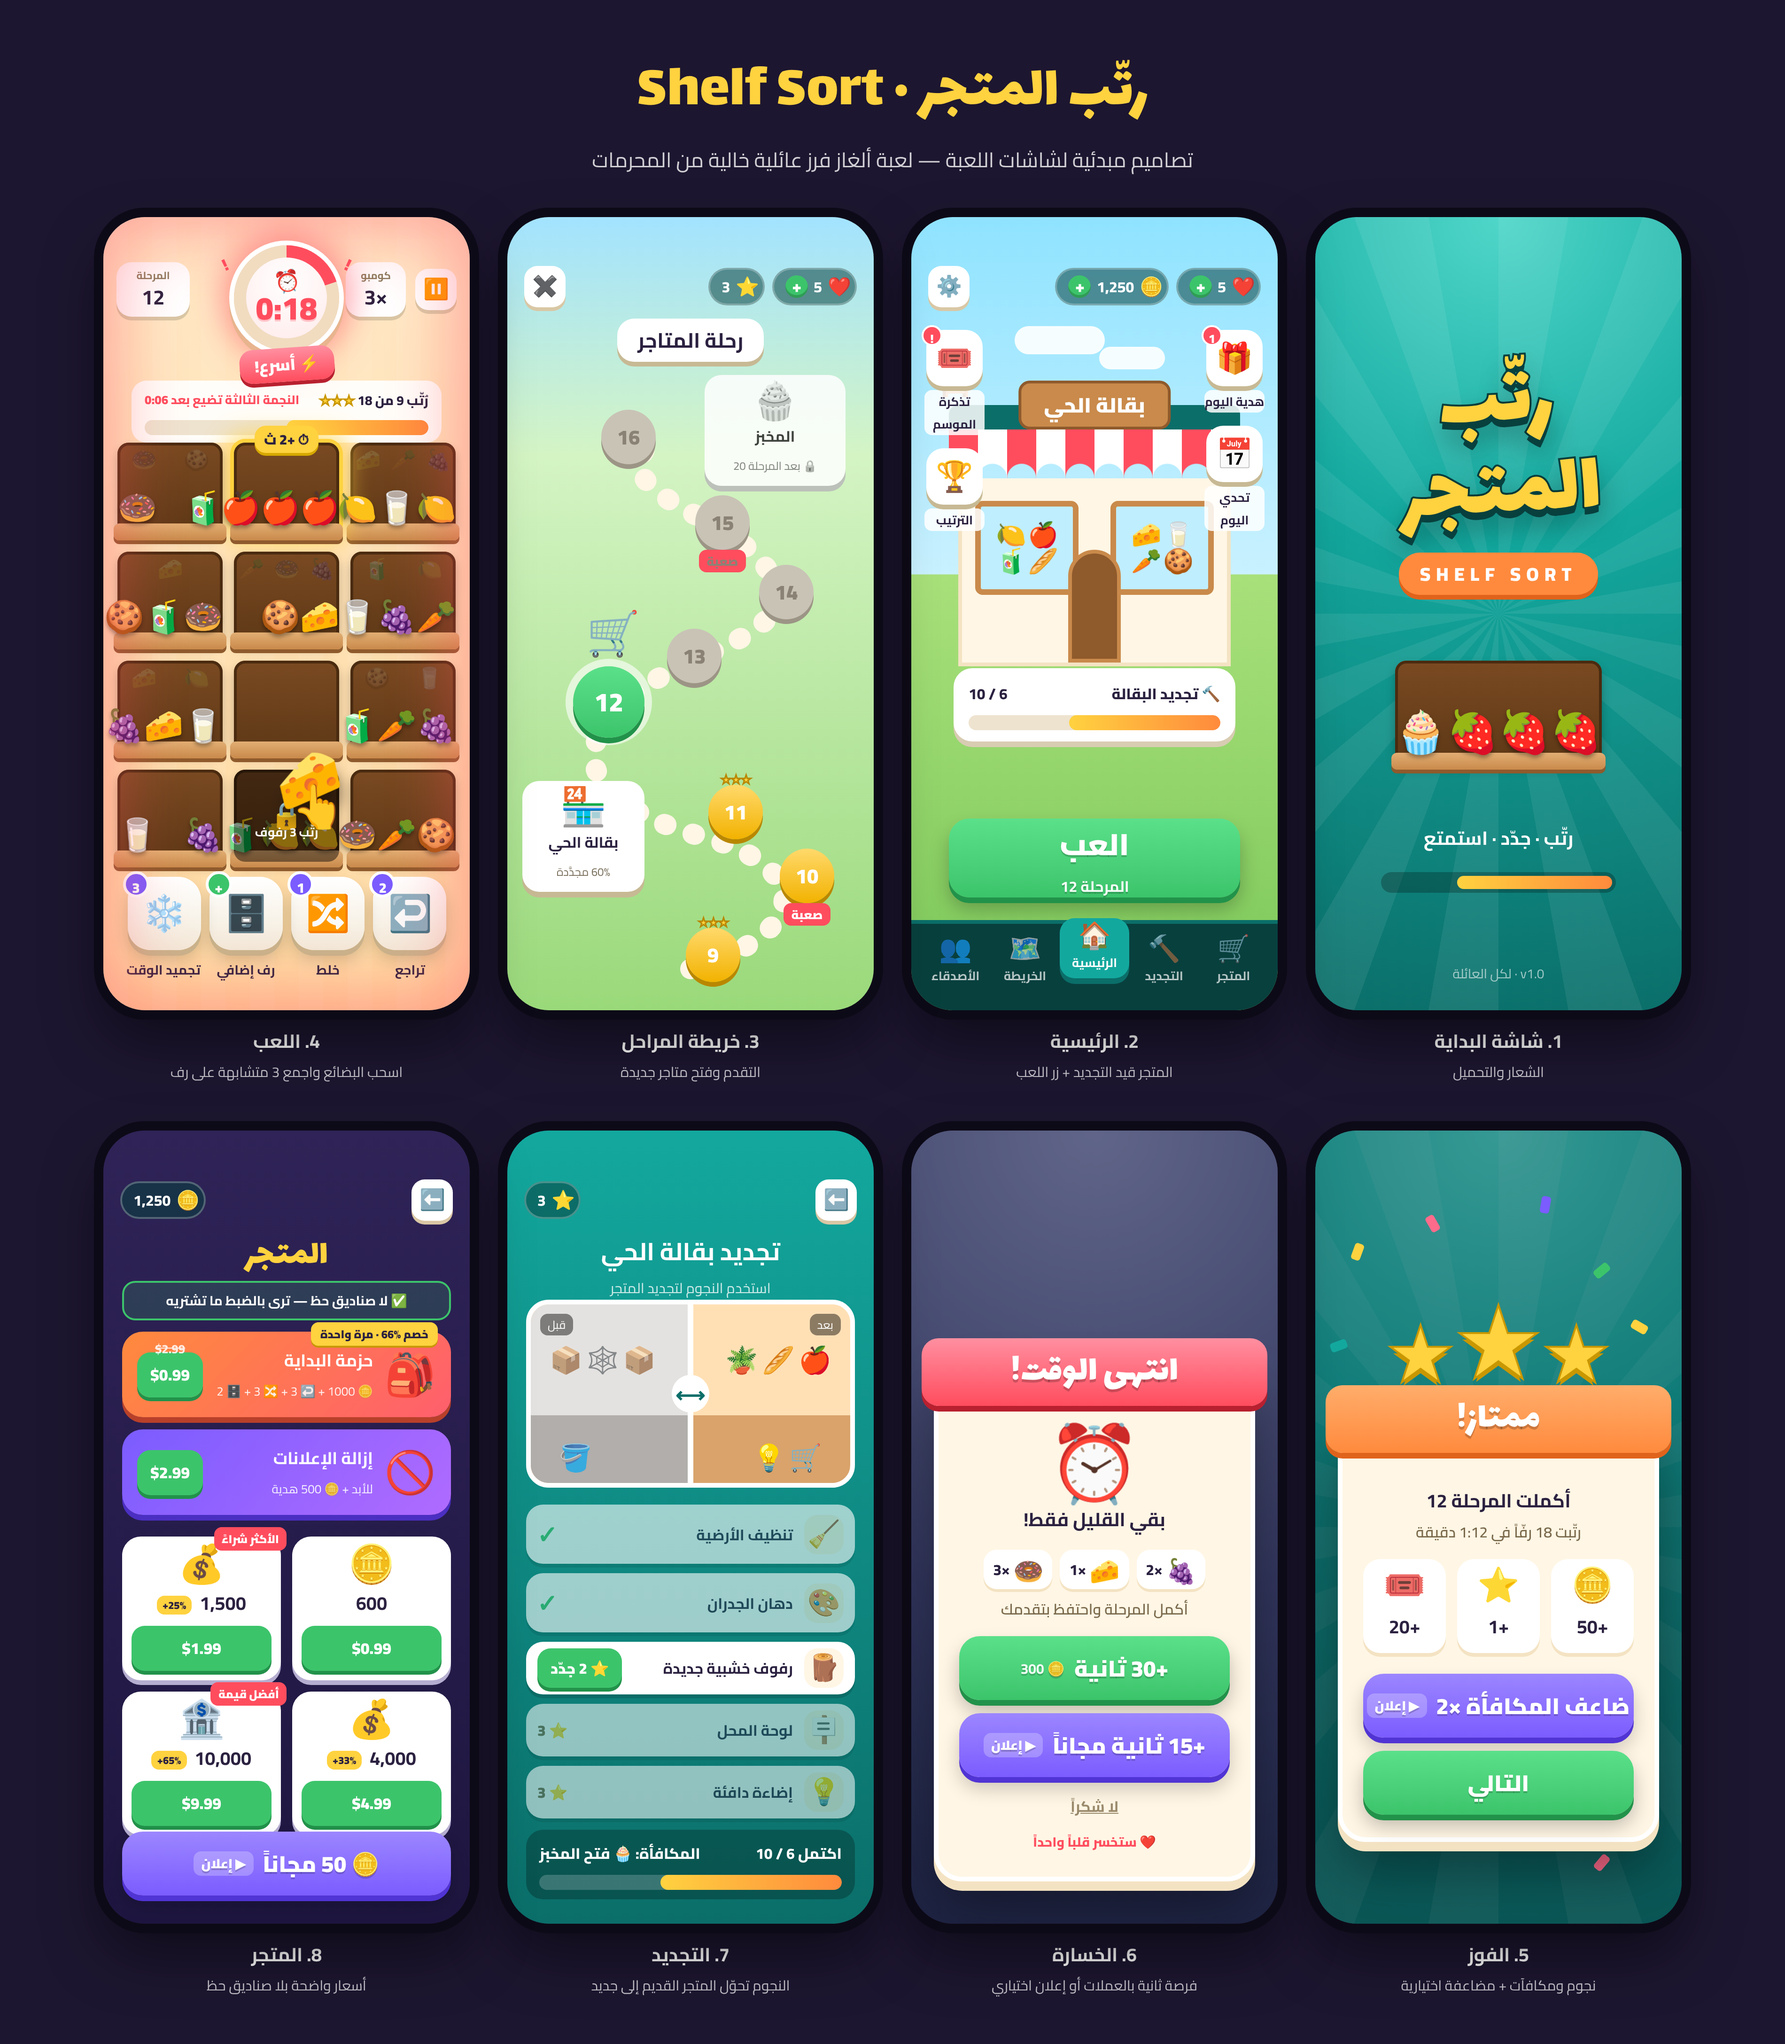
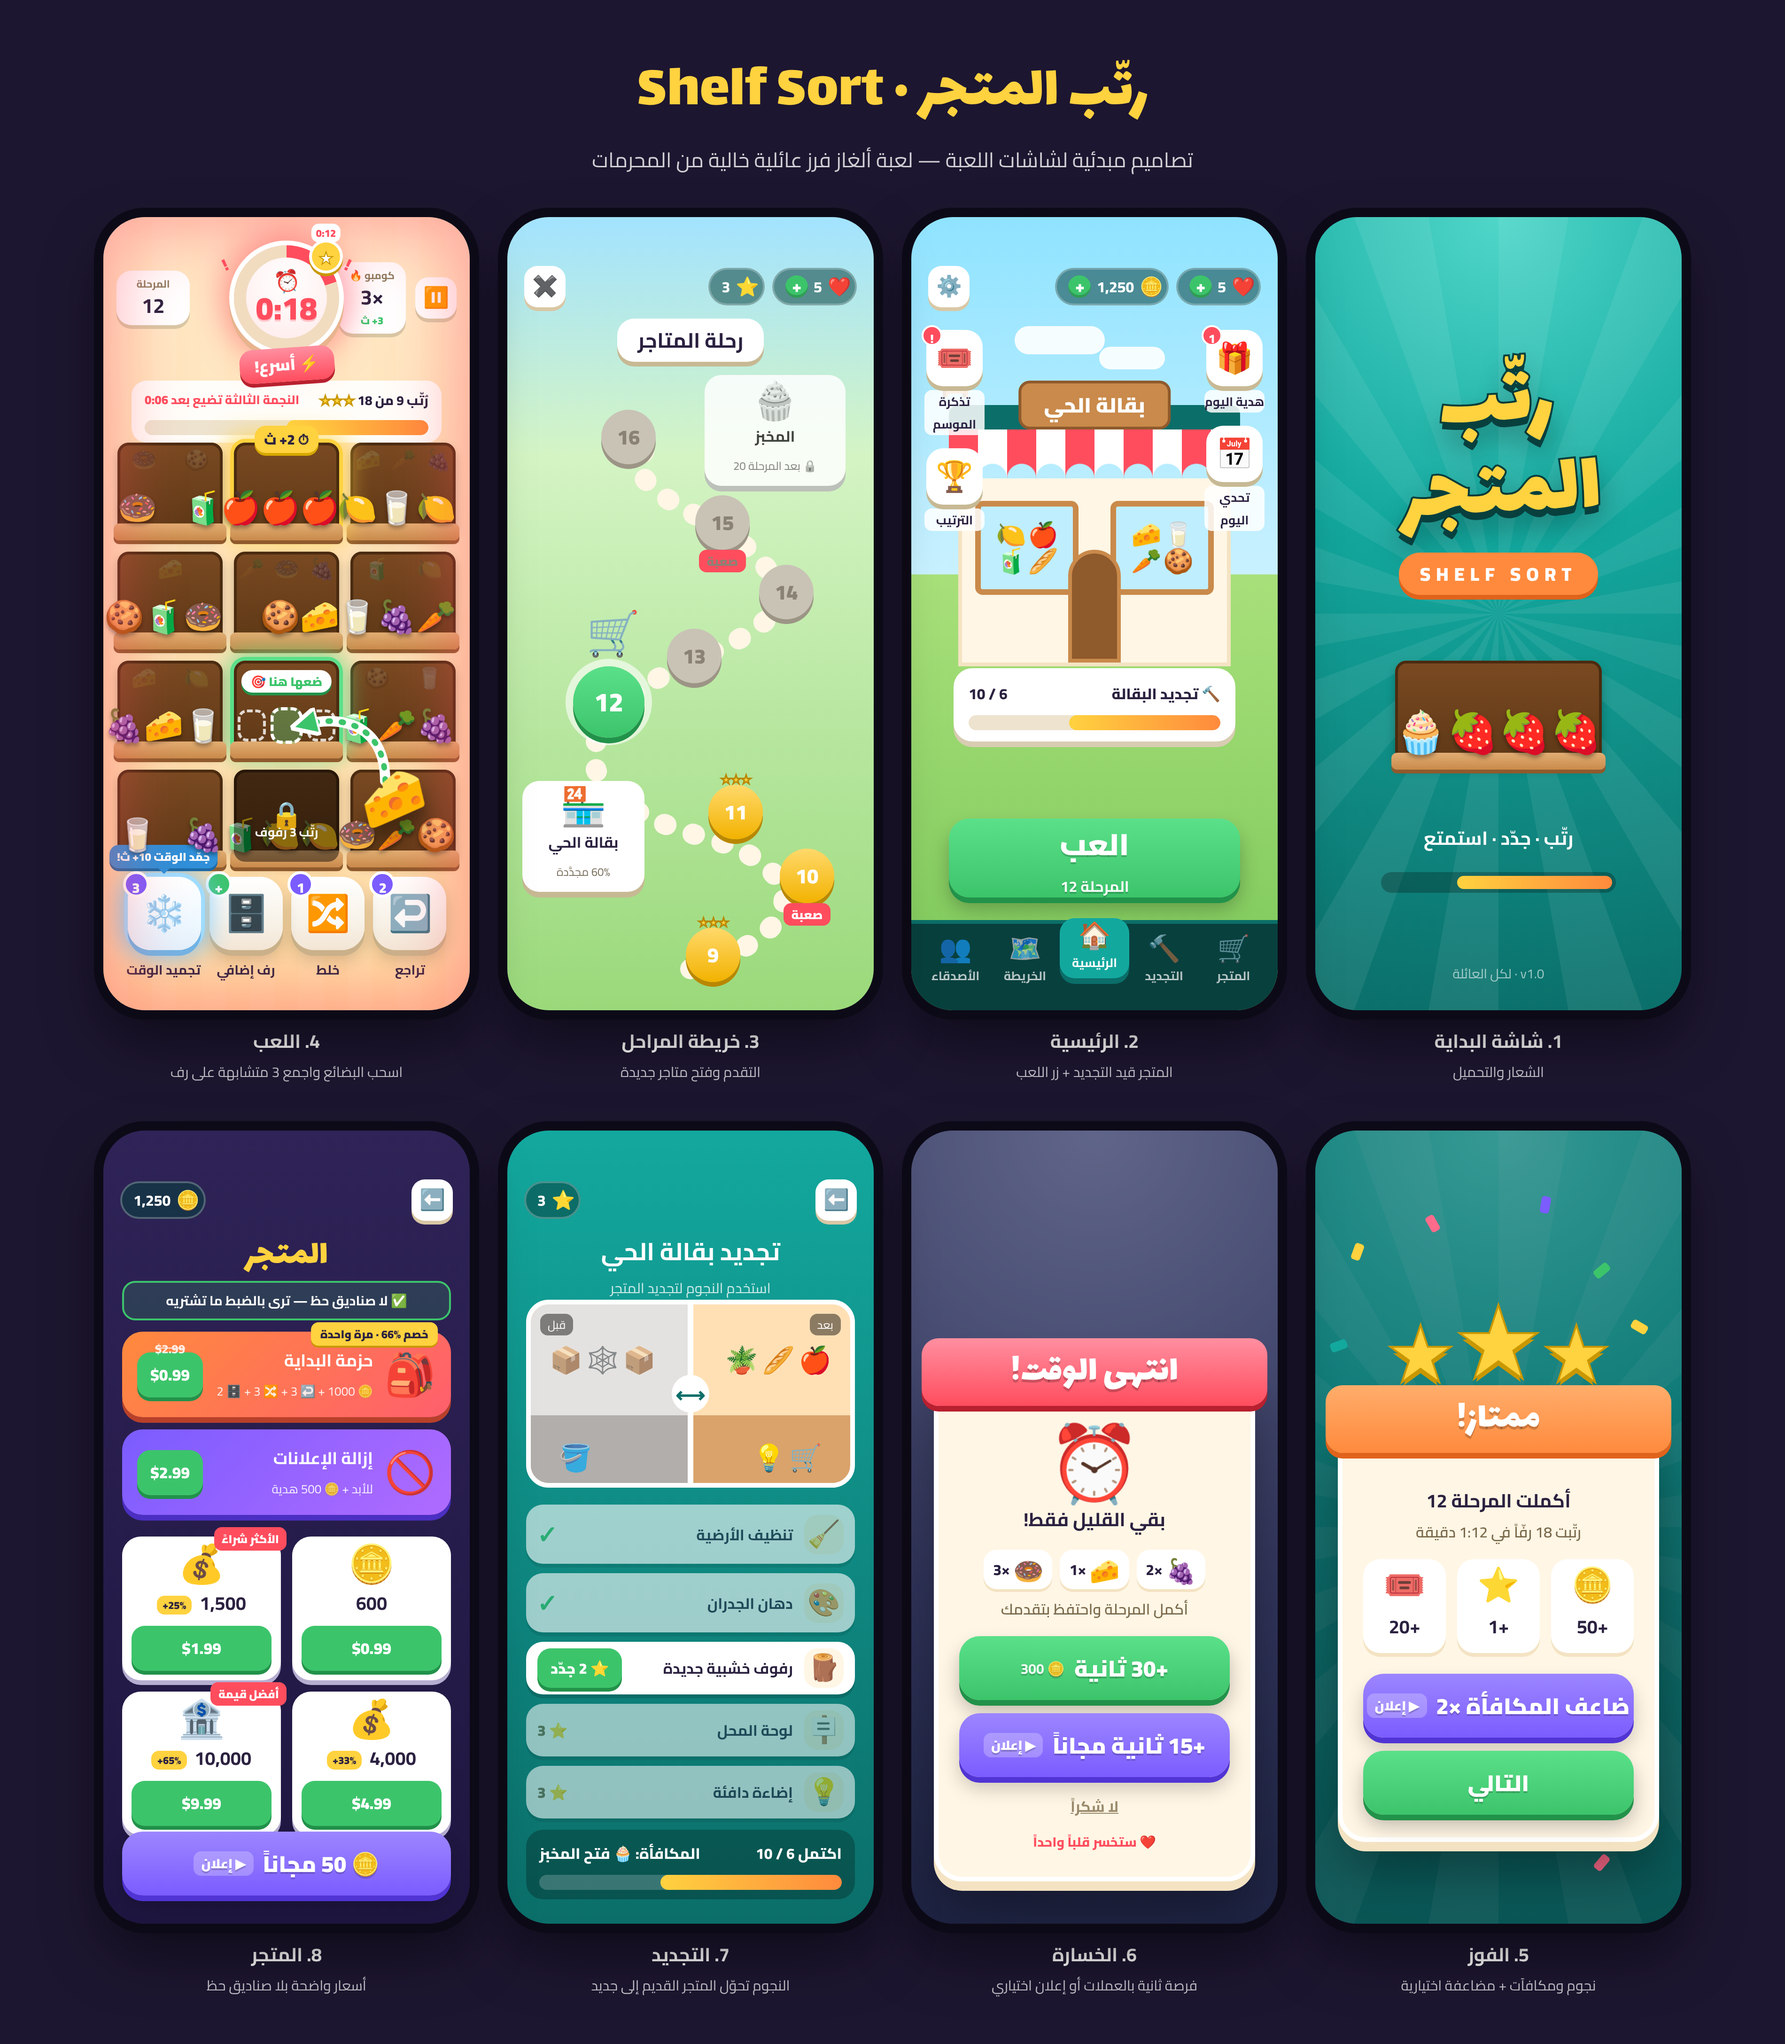
Mockups: guide arrow instead of hand, smarter timer cues
Claude-Session: https://claude.ai/code/session_0198GSpUHpAsMi38EfXjb44N

diff --git a/design/mockups/shelf-sort-mockups.html b/design/mockups/shelf-sort-mockups.html
@@ -160,6 +160,23 @@ body { font-family: "Cairo", sans-serif; background: #1d1630; color: var(--ink);
   font-weight: 900; font-size: 17px; padding: 2px 16px; border-radius: 14px; box-shadow: 0 4px 0 #b8202f; transform: rotate(-4deg); white-space: nowrap; }
 .timer .tick { position: absolute; top: 4px; font-size: 18px; font-weight: 900; color: var(--red); }
 .timer .tick.a { left: -12px; transform: rotate(-25deg); } .timer .tick.b { right: -12px; transform: rotate(25deg); }
+.shelf.drop { box-shadow: inset 0 0 0 3px #4a2b10, 0 0 0 4px #5be08a, 0 0 24px 8px rgba(91,224,138,.75); }
+.shelf.drop .front { justify-content: space-around; }
+.shelf.drop .ghost-slot { width: 30px; height: 34px; border: 3px dashed rgba(255,255,255,.8); border-radius: 10px; }
+.shelf.drop .ghost-slot.hl { background: rgba(91,224,138,.35); border-color: #fff; transform: scale(1.15); }
+.drop-chip { position: absolute; top: 10px; left: 50%; transform: translateX(-50%); z-index: 4; background: #fff; color: var(--green); font-weight: 900;
+  font-size: 13px; border-radius: 12px; padding: 0 10px; box-shadow: 0 3px 0 #22924a; white-space: nowrap; }
+.guide { position: absolute; inset: 0; z-index: 8; pointer-events: none; }
+.trail { position: absolute; z-index: 8; font-size: 12px; color: #fff; }
+.timer .star-mark { position: absolute; z-index: 2; width: 30px; height: 30px; border-radius: 50%; background: var(--yellow); display: grid; place-items: center;
+  font-size: 18px; color: #fff; -webkit-text-stroke: 1px #c99700; box-shadow: 0 0 0 3px #fff, 0 3px 0 3px #c99700; }
+.timer .star-mark small { position: absolute; top: -20px; left: 50%; transform: translateX(-50%); font-size: 11px; font-weight: 900; color: var(--red);
+  -webkit-text-stroke: 0; background: #fff; border-radius: 8px; padding: 0 5px; white-space: nowrap; direction: ltr; }
+.combo-bonus { display: block; font-size: 11px; font-weight: 900; color: var(--green); margin-top: -2px; }
+.booster.suggest .ic { box-shadow: 0 6px 0 #6fb6e8, 0 0 0 4px #9fdcff, 0 0 26px 8px rgba(120,200,255,.9); background: linear-gradient(180deg, #fff, #e3f4ff); }
+.booster .hint { position: absolute; top: -34px; left: 50%; transform: translateX(-50%); background: #2f8fd8; color: #fff; font-size: 12px; font-weight: 900;
+  border-radius: 10px; padding: 1px 8px; white-space: nowrap; box-shadow: 0 3px 0 #1d6aa6; }
+.booster .hint::after { content: ""; position: absolute; bottom: -6px; left: 50%; margin-left: -6px; border: 6px solid transparent; border-bottom: 0; border-top-color: #2f8fd8; }
 .urgent { position: absolute; inset: 0; pointer-events: none; z-index: 4; box-shadow: inset 0 0 70px 14px rgba(255,77,94,.45); border-radius: 44px; }
 .goal .lose { color: var(--red); font-size: 13px; }
 .goal .lose b { direction: ltr; display: inline-block; }
@@ -384,13 +401,14 @@ body { font-family: "Cairo", sans-serif; background: #1d1630; color: var(--ink);
 <div class="phone bg-wall" id="s4">
   <div class="game-hud">
     <div class="icon-btn"><i class="emoji">⏸</i></div>
-    <div class="stat" style="min-width:64px"><small>كومبو</small><strong>×3</strong></div>
+    <div class="stat" style="min-width:64px"><small>كومبو 🔥</small><strong>×3</strong><span class="combo-bonus"><span class="ltr">+3</span> ث</span></div>
     <div class="spacer"></div>
     <div class="stat"><small>المرحلة</small><strong>12</strong></div>
   </div>
   <div class="urgent"></div>
   <div class="timer">
     <span class="tick a">!</span><span class="tick b">!</span>
+    <div class="star-mark" style="left:83px;top:-3px">★<small>0:12</small></div>
     <div class="ring"><div class="inner"><i class="emoji">⏰</i><strong>0:18</strong></div></div>
     <div class="hurry">⚡ أسرع!</div>
   </div>
@@ -403,7 +421,7 @@ body { font-family: "Cairo", sans-serif; background: #1d1630; color: var(--ink);
   <div class="board">
     <div class="shelf"><div class="back"><i class="emoji">🍇</i><i class="emoji">🥕</i><i class="emoji">🧀</i></div>
       <div class="front"><i class="emoji">🍋</i><i class="emoji">🥛</i><i class="emoji">🍋</i></div></div>
-    <div class="shelf glow"><span class="pop">⏱ +2 ث</span>
+    <div class="shelf glow"><span class="pop">⏱ <span class="ltr">+2</span> ث</span>
       <div class="front"><i class="emoji">🍎</i><i class="emoji">🍎</i><i class="emoji">🍎</i></div></div>
     <div class="shelf"><div class="back"><i class="emoji">🍪</i><i class="emoji">🍩</i></div>
       <div class="front"><i class="emoji">🧃</i><span class="slot-empty"></span><i class="emoji">🍩</i></div></div>
@@ -417,7 +435,7 @@ body { font-family: "Cairo", sans-serif; background: #1d1630; color: var(--ink);
 
     <div class="shelf"><div class="back"><i class="emoji">🥛</i><i class="emoji">🍪</i></div>
       <div class="front"><i class="emoji">🍇</i><i class="emoji">🥕</i><i class="emoji">🧃</i></div></div>
-    <div class="shelf"><div class="front"><span class="slot-empty"></span><span class="slot-empty"></span><span class="slot-empty"></span></div></div>
+    <div class="shelf drop"><span class="drop-chip">ضعها هنا 🎯</span><div class="front"><span class="ghost-slot"></span><span class="ghost-slot hl"></span><span class="ghost-slot"></span></div></div>
     <div class="shelf"><div class="back"><i class="emoji">🍋</i><i class="emoji">🧀</i></div>
       <div class="front"><i class="emoji">🥛</i><i class="emoji">🧀</i><i class="emoji">🍇</i></div></div>
 
@@ -427,14 +445,19 @@ body { font-family: "Cairo", sans-serif; background: #1d1630; color: var(--ink);
     <div class="shelf"><div class="front"><i class="emoji">🍇</i><span class="slot-empty"></span><i class="emoji">🥛</i></div></div>
   </div>
 
-  <div class="dragging emoji" style="top:572px;left:186px">🧀</div>
-  <div class="hand emoji" style="top:604px;left:200px">👆</div>
+  <svg class="guide" viewBox="0 0 390 844">
+    <defs><marker id="ah" viewBox="0 0 10 10" refX="5" refY="5" markerWidth="5" markerHeight="5" orient="auto-start-reverse">
+      <path d="M0 0 L10 5 L0 10 z" fill="#3cc46b" stroke="#fff" stroke-width="1.5"/></marker></defs>
+    <path d="M300 600 C 300 545, 260 528, 214 540" fill="none" stroke="#fff" stroke-width="11" stroke-linecap="round"/>
+    <path d="M300 600 C 300 545, 260 528, 214 540" fill="none" stroke="#3cc46b" stroke-width="6" stroke-linecap="round" stroke-dasharray="2 12" marker-end="url(#ah)"/>
+  </svg>
+  <div class="dragging emoji" style="top:592px;left:276px">🧀</div>
 
   <div class="boosters">
     <div class="booster"><div class="ic"><i class="emoji">↩</i></div><span class="cnt">2</span><b>تراجع</b></div>
     <div class="booster"><div class="ic"><i class="emoji">🔀</i></div><span class="cnt">1</span><b>خلط</b></div>
     <div class="booster"><div class="ic"><i class="emoji">🗄</i></div><span class="cnt add">+</span><b>رف إضافي</b></div>
-    <div class="booster"><div class="ic"><i class="emoji">❄</i></div><span class="cnt">3</span><b>تجميد الوقت</b></div>
+    <div class="booster suggest"><span class="hint">جمّد الوقت <span class="ltr">+10</span> ث!</span><div class="ic"><i class="emoji">❄</i></div><span class="cnt">3</span><b>تجميد الوقت</b></div>
   </div>
 </div>
 <figcaption>4. اللعب<span>اسحب البضائع واجمع 3 متشابهة على رف</span></figcaption>
